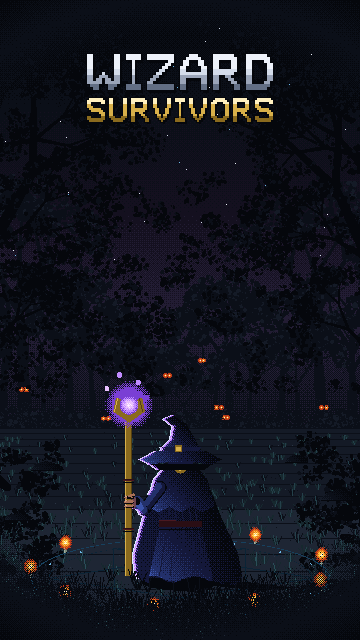
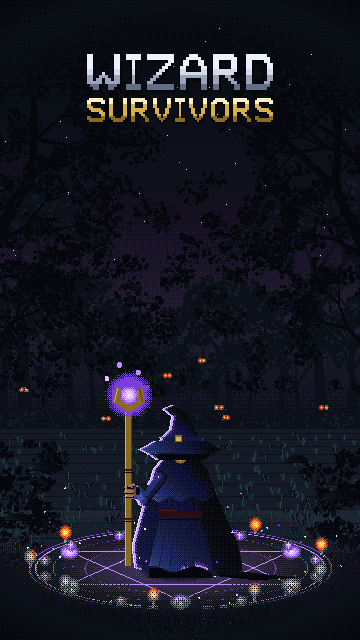
art: light the ward circle, and clear the ground in front of it
The circle is the second light source in the frame after the orb, and the
composition is about him standing inside it - so it now burns on the arcane
ELEMENT ramp, the same one the orb uses, instead of the cool arcane material.
Three concentric rings, an inscribed hexagram with a lamp at each of its six
points, fourteen rune ticks around the outer band, and motes lifting off it
drawn after the figure so some drift in front of him.

It lights him too. _underlight is the horizontal twin of _bounce: it walks each
column from the bottom up and tints the first few pixels of the silhouette. A
bright thing on the floor that the man standing in it is somehow unaware of is
the give-away that a light source has been drawn rather than lit with.

Foliage pulled back off it. The foreground grass ran straight across the near
arc, which put the brightest thing in the frame behind a hedge; it is now
excluded from an ellipse around the ward, and the grass inside the circle is
thinned much harder so the runes read through it.

Two things that did not work and are written up in the doc: the ground wash
painted on the element ramp filled the floor with a flat slab of saturated
purple that read as a rug - what the ward lands on is stone, so the wash is
built from the violet material row and only the rings emit. And painting the
ward back over the near lip of his contact shadow punched a hole in the floor;
a figure standing in a light still blocks it, so the shadow stays occlusion and
[…]

Changed region(s): [[0.0, 0.5625, 1.0, 0.9688], [0.2139, 0.75, 0.2444, 0.7812]]

diff --git a/tools/art/splash.py b/tools/art/splash.py
@@ -125,8 +125,8 @@ def vigil():
         gx = rg.randrange(-6, W + 6)
         gy2 = 434 + int(rg.random() ** 0.75 * (H - 434))
         t = (gy2 - 434) / float(H - 434)
-        inside = ((gx - 180) / 150.0) ** 2 + ((gy2 - 578) / 40.0) ** 2 < 1.0
-        if inside and rg.random() < 0.72:
+        inside = ((gx - 180) / 164.0) ** 2 + ((gy2 - 568) / 48.0) ** 2 < 1.0
+        if inside and rg.random() < 0.9:
             continue
         sk.grass(c, gx, gy2, 3 + t * 9, seed=rg.randrange(9999),
                  dark=M["lichen"][4] if rg.random() < 0.7 else M["stone"][4],
@@ -168,18 +168,41 @@ def vigil():
     sk.canopy(c, 0, 400, CLEAR, 250, seed=151, dark=OCC, light=M["stone"][4], width=W,
               density=1.25)
 
-    # the ward circle, inscribed in arcane, drawn in perspective
-    cxp, cyp = 180, 578
-    c.ring(cxp, cyp, 150, 40, M["arcane"][3], 2)
-    c.ring(cxp, cyp, 132, 34, M["arcane"][4], 1)
-    for i in range(16):
-        a = i * 6.28318 / 16.0
-        c.disc(cxp + math.cos(a) * 141, cyp + math.sin(a) * 37, 1, 1, M["arcane"][1])
+    # The ward circle. It is the second light source in the frame after the orb, and it is
+    # what the composition is actually about, so it burns on the arcane ELEMENT ramp - the
+    # same one the orb uses - rather than the cool arcane material. Material tones are
+    # pigment; this is meant to be emitting, and on the material row it was barely visible.
+    # 568, not 578: the ward got much brighter, and at the old height its lower arc ran
+    # straight through the PRESS ANY KEY band at rows 616-636.
+    cxp, cyp = 180, 568
+    A = E["arcane"]
+    # The light it throws on the ground, as three graduated pools. Painting this straight on
+    # the element ramp filled the floor with a flat slab of saturated purple that read as a
+    # rug rather than as light: what the ward lands on is stone, so it is the violet MATERIAL
+    # tones that come up, and only the rings themselves are allowed to be emissive.
+    c.radial(cxp, cyp, 208, 62, [M["violet"][3], M["violet"][4], None])
+    c.radial(cxp, cyp, 170, 47, [M["violet"][2], M["violet"][3], None])
+    c.radial(cxp, cyp, 122, 33, [M["violet"][1], M["violet"][2], None])
+    c.ring(cxp, cyp, 152, 41, A[3], 2)
+    c.ring(cxp, cyp, 146, 39, A[2], 2)
+    c.ring(cxp, cyp, 128, 33, A[3], 1)
+    c.ring(cxp, cyp, 96, 25, A[3], 1)
+    star = []
     for i in range(6):
-        a = i * 6.28318 / 6.0
-        c.line(cxp + math.cos(a) * 132, cyp + math.sin(a) * 34,
-               cxp + math.cos(a + 2.094) * 132, cyp + math.sin(a + 2.094) * 34,
-               M["arcane"][4])
+        a = i * 6.28318 / 6.0 - 1.5708
+        star.append((cxp + math.cos(a) * 128, cyp + math.sin(a) * 33))
+    for i in range(6):                                    # two triangles, one hexagram
+        c.line(star[i][0], star[i][1], star[(i + 2) % 6][0], star[(i + 2) % 6][1], A[2])
+    for (nx, ny) in star:                                 # a lamp at each point
+        c.radial(nx, ny, 11, 8, [A[0], A[1], A[2], A[3], None])
+    for i in range(14):                                   # rune ticks around the outer band
+        a = i * 6.28318 / 14.0 + 0.22
+        rx0 = cxp + math.cos(a) * 139
+        ry0 = cyp + math.sin(a) * 36
+        c.radial(rx0, ry0, 7, 6, [A[2], A[3], None])
+        c.vline(int(rx0), ry0 - 3, ry0 + 3, A[1])
+        c.hline(rx0 - 2, rx0 + 2, ry0 - 1, A[1])
+        c.set(int(rx0), int(ry0), A[0])
 
     # Candles are z-sorted around the figure. Drawing them all after him put the far side of
     # the circle - and its glow - on top of a man who is standing in front of it.
@@ -193,17 +216,30 @@ def vigil():
                       h=8 + int(depth * 3))
 
     candles(False)
-    hero.wizard_hero(c, cxp, cyp, h=150)
+    hero.wizard_hero(c, cxp, cyp, h=150, under_ramp=A)
     candles(True)
+
+    # motes lifting off the ring, after the figure so they drift in front of him too
+    rm = random.Random(509)
+    for _ in range(52):
+        a = rm.random() * 6.28318
+        d = 0.8 + rm.random() * 0.32
+        c.disc(cxp + math.cos(a) * 150 * d,
+               cyp + math.sin(a) * 40 * d - rm.random() ** 1.7 * 52, 1, 1,
+               [A[0], A[1], A[2], A[3]][rm.randrange(4)])
 
     # Grass in front of him, in flat occlusion. It is the closest thing in the frame, so it
     # gets no light at all - and a foreground plane the figure sits behind is what turns a
     # backdrop into somewhere he is standing.
     rf = random.Random(401)
-    for _ in range(300):
+    for _ in range(230):
         gx = rf.randrange(-8, W + 8)
-        gy2 = 578 + int(rf.random() ** 0.55 * (H + 14 - 578))
-        sk.grass(c, gx, gy2, 10 + (gy2 - 578) * 0.42, seed=rf.randrange(9999),
+        gy2 = 592 + int(rf.random() ** 0.55 * (H + 14 - 592))
+        # Nothing in front of the ward. The foreground grass used to run straight across the
+        # near arc of the circle, which put the brightest thing in the frame behind a hedge.
+        if ((gx - 180) / 138.0) ** 2 + ((gy2 - 576) / 62.0) ** 2 < 1.0:
+            continue
+        sk.grass(c, gx, gy2, 10 + (gy2 - 592) * 0.42, seed=rf.randrange(9999),
                  dark=OCC, light=M["stone"][4])
 
     # The vignette is scene light, so it runs before the type, never after. Running it

diff --git a/tools/art/hero.py b/tools/art/hero.py
@@ -85,6 +85,30 @@ def _bounce(c, x0, x1, y0, y1, ramp):
                     break
 
 
+def _underlight(c, x0, x1, y0, y1, ramp):
+    """Light thrown up onto the figure from the ward circle he is standing in.
+
+    The horizontal twin of _bounce: it walks each column from the bottom up, finds the first
+    lit pixel of the silhouette, and tints the few above it. Without it the circle is a bright
+    thing on the floor that the man standing in it is somehow unaware of - the give-away that
+    a light source has been drawn rather than lit with.
+    """
+    for x in range(int(x0), int(x1) + 1):
+        run = 0
+        for y in range(int(y1), int(y0) - 1, -1):
+            if c.get(x, y)[3] and not c.get(x, y + 1)[3]:
+                run = 1
+            elif run:
+                run += 1
+            if run:
+                if run <= 2:
+                    c.set(x, y, ramp[2] if (x + y) % 4 else ramp[3])
+                elif run <= 5 and (x * 2 + y) % 3 == 0:
+                    c.set(x, y, ramp[3])
+                if run > 5:
+                    break
+
+
 def _grip_y(yb, u):
     """Where the hand meets the staff. Both halves of the arm key off this one number."""
     return yb - 16.2 * u
@@ -169,7 +193,8 @@ def _fingers(c, yb, u, sx, w):
              0.30 * u, 0.22 * u, s[2])
 
 
-def wizard_hero(c, cx, yb, h=150, robe="wool", staff_ramp=None, cast=(1.5, 0.5)):
+def wizard_hero(c, cx, yb, h=150, robe="wool", staff_ramp=None, cast=(1.5, 0.5),
+                under_ramp=None):
     """Draw the figure from behind with its feet on yb. h scales the whole construction."""
     u = h / 32.0
     r = M[robe]
@@ -180,7 +205,13 @@ def wizard_hero(c, cx, yb, h=150, robe="wool", staff_ramp=None, cast=(1.5, 0.5))
     c.poly([(cx - 7 * u, yb), (cx + 7 * u, yb),
             (cx + 7 * u + 12 * u * cast[0], yb + 4 * u * cast[1]),
             (cx - 2 * u + 12 * u * cast[0], yb + 5 * u * cast[1])], OCC)
-    c.disc(cx, yb + 0.4 * u, 8.5 * u, 2.2 * u, OCC)
+    # Dithered out at its edge rather than a hard ellipse. Against a lit floor a hard
+    # black contact shadow stops reading as shadow and starts reading as a hole.
+    c.radial(cx, yb + 0.4 * u, 9.4 * u, 2.6 * u,
+             [OCC, OCC, M["violet"][4], M["violet"][3], None])
+    # The contact shadow stays hard occlusion even with the ward lit under him: a figure
+    # standing IN a light still blocks it. Painting the ward back over the near lip of the
+    # shadow was tried and it punched a hole in the floor.
 
     # everything else onto a transparent layer, so the rim and bounce have an edge to find
     scene, ox, oy = c, int(cx - 16 * u), int(yb - 46 * u)
@@ -260,6 +291,9 @@ def wizard_hero(c, cx, yb, h=150, robe="wool", staff_ramp=None, cast=(1.5, 0.5))
     # Edge light, on the figure only. Running these after the staff rimmed the staff - it is
     # the leftmost lit thing in most rows - and the result read as a glowing rod.
     _bounce(c, 1, int(cx + 14 * u), int(yb - 36 * u), int(yb), ramp)
+    if under_ramp:
+        _underlight(c, int(cx - 15 * u), int(cx + 15 * u), int(yb - 22 * u), int(yb + 1),
+                    under_ramp)
     _rim(c, 2, int(cx + 15 * u), int(yb - 36 * u), int(yb), RIM)
 
     # --- staff ------------------------------------------------------------------

diff --git a/.ai/title-screen.md b/.ai/title-screen.md
@@ -92,6 +92,9 @@ order bugs. Back to front:
 | Hand and finger size and tone | `_fingers` / `_arm` in `hero.py`; tones from the `flesh` ramp |
 | Branch forking, lean, hanging strands | `tree()` in `splashkit.py` |
 | Ward circle size / candle count | `cxp, cyp` and the radii in `vigil()` |
+| How bright the ward burns | the rings, star nodes and rune ticks in `vigil()`, all on `E["arcane"]` |
+| How far its light spreads on the floor | the three `radial` pools, on the **violet material** row |
+| How much it lights the figure | `under_ramp=` on `wizard_hero`, and `_underlight` in `hero.py` |
 | Figure size | `hero.wizard_hero(c, cxp, cyp, h=150)` |
 | Figure proportions | `wizard_hero` in `hero.py`, all in units of `u = h/32` |
 | Robe colour | `robe="wool"` — any key in `bonelight.MATERIALS` |
@@ -149,6 +152,15 @@ never polygons: at this size four right angles reads as a brick.
 - **A clean elliptical hole in the canopy reads as a vignette**, not as a gap in leaves. The
   clearing edge is perturbed by three sine harmonics in `canopy()`; without them the effect gives
   itself away at a glance.
+- **Emissive ramps belong on the emitter, not on what it lights.** The ward's ground wash was
+  first painted on `E["arcane"]` like the rings themselves, and it filled the floor with a flat
+  slab of saturated purple that read as a rug. What the ward lands on is stone, so the wash is
+  built from the **violet material** row and only the rings are allowed to emit.
+- **A figure standing in a light still blocks it.** Painting the ward back over the near lip of
+  his contact shadow — to "soften" it — punched a visible hole in the floor. The shadow stays
+  `occ`; what it needed was a dithered edge, not a brighter middle.
+- The ward sits at `cyp = 568`, not 578, purely so its lower arc clears the PRESS ANY KEY band at
+  rows 616–636. Brightening the circle is what made that collision matter.
 
 ## Verifying a change
 
